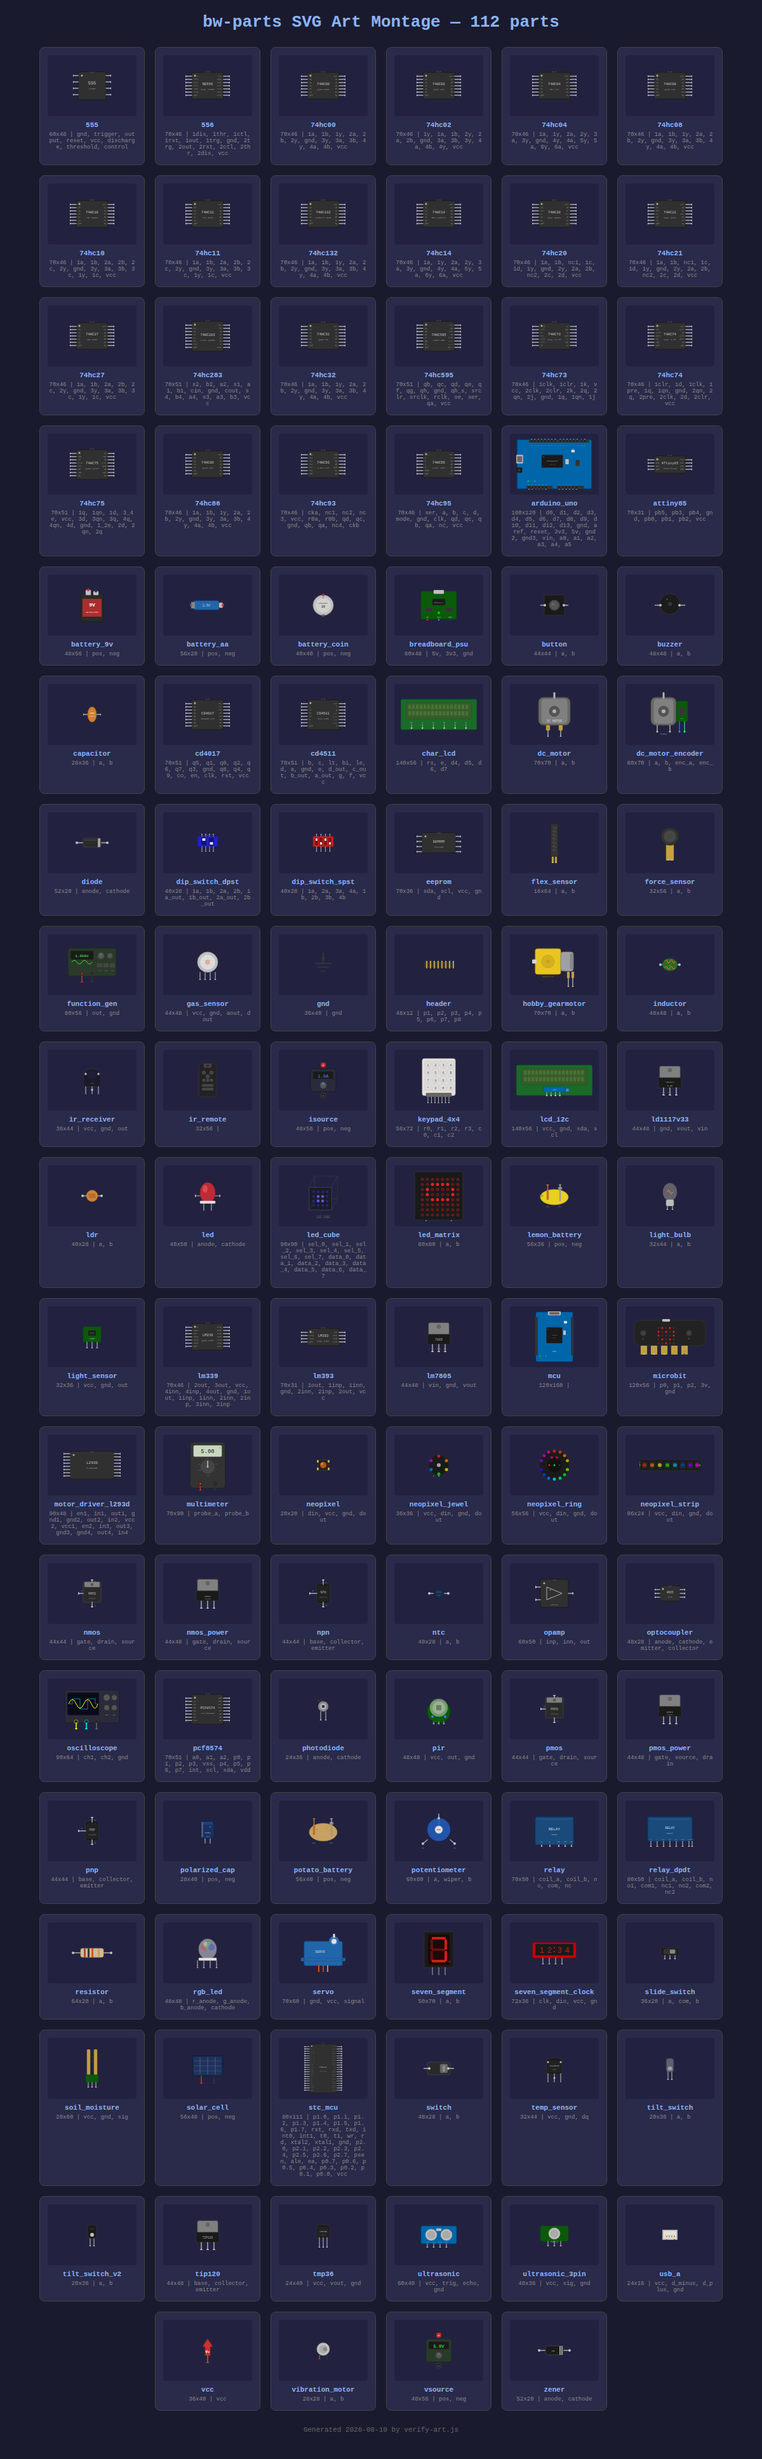
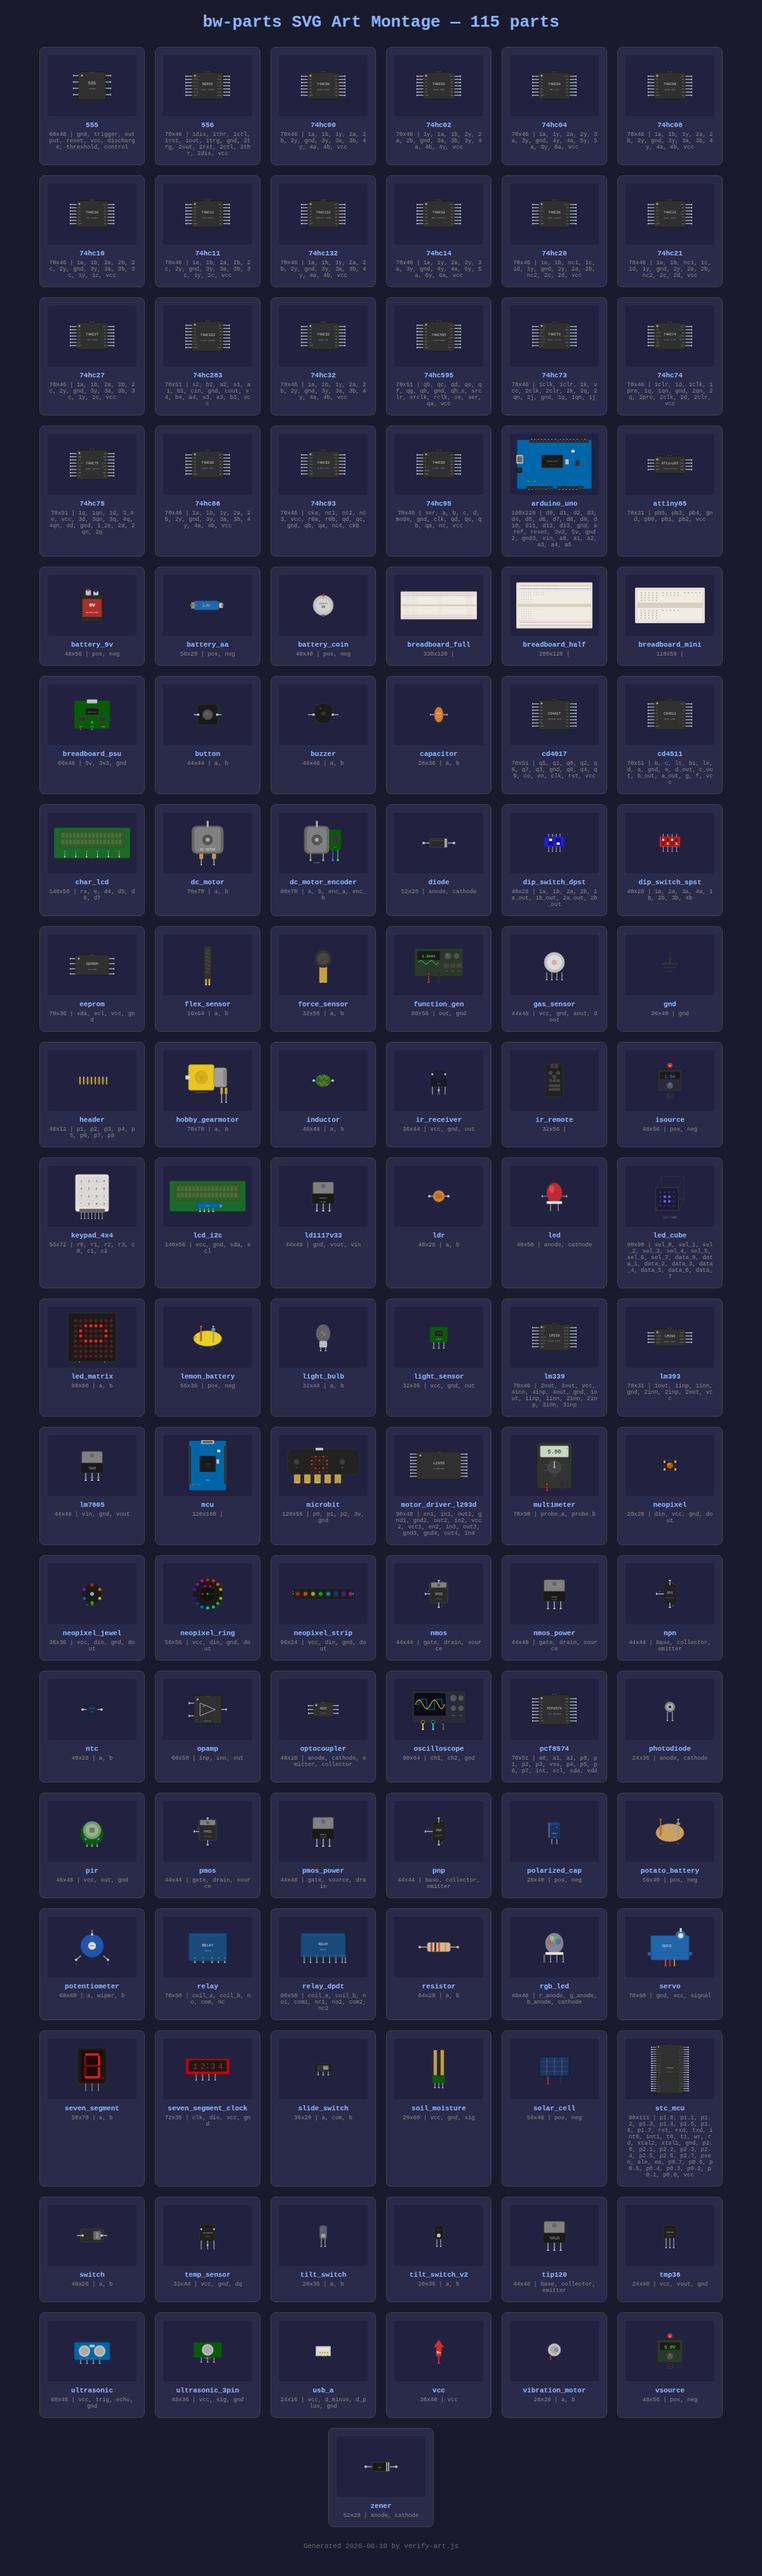
Breadboards, DIP ICs, catalog updates: 115 SVGs, 3 pending
Breadboard art (3): full-size (330x120, power rails + center gap +
hole grid + row labels a-j), half-size (200x120, same structure),
mini (110x56, no power rails). All use empty terminals array — hole-
to-node mapping is the circuit model's job, not the sidecar's.

DIP-generated from datasheets (4): NE556 dual timer (14-pin, TI
SLFS023), LM393 dual comparator (8-pin, TI SLCS007), LM339 quad
comparator (14-pin, TI SLCS006), ATtiny85 (8-pin, Microchip —
unverified variant noted in sidecar).

Catalog updates:
- ATtiny85 marked modeled (avr8js adapter landed in a7fef9a)
- Arduino Uno marked modeled (avr8js)
- STC12 marked modeled (emu8051)
- micro:bit, instruments, header, usb_a marked done
- LM393/LM339 slugs adopted per reconciliation proposal
- header_8pin renamed to header per reconciliation

Remaining pending: microbit_breakout (2 parts), pololu_motor_ctrl
(help-page-only, correctly last).

Changed region(s): [[0.0617, 0.0, 0.9558, 1.0]]

diff --git a/PARTS-CATALOG.md b/PARTS-CATALOG.md
@@ -169,20 +169,20 @@ Generated by `generate-dip.js`. Pin maps from manufacturer datasheets.
 | # | Kind slug | Name EN / DE | Terminals | Engine | Art | Confidence |
 |---|-----------|-------------|-----------|--------|-----|------------|
 | 87 | `555` | 555 Timer (NE555) / 555-Timer | gnd, trigger, output, reset, control, threshold, discharge, vcc | registry-candidate | done | `slug` |
-| 88 | `556` | 556 Dual Timer (NE556) / 556-Doppeltimer | (14-pin DIP) | drawable-only | pending | `slug` |
+| 88 | `556` | 556 Dual Timer (NE556) / 556-Doppeltimer | (14-pin DIP) | drawable-only | dip-gen | `slug` |
 | 89 | `opamp` | Op-Amp 741 (uA741) / Operationsverstaerker | inp, inn, out | modeled | done | `slug` |
-| 90 | `comparator_lm393` | Dual Comparator LM393 / Komparator LM393 | inp, inn, out, vcc, gnd | drawable-only | pending | `slug` |
-| 91 | `comparator_lm339` | Quad Comparator LM339 / Komparator LM339 | (14-pin DIP) | drawable-only | pending | `slug` |
+| 90 | `lm393` | Dual Comparator LM393 / Komparator LM393 | (8-pin DIP) | drawable-only | dip-gen | `slug` |
+| 91 | `lm339` | Quad Comparator LM339 / Komparator LM339 | (14-pin DIP) | drawable-only | dip-gen | `slug` |
 | 92 | `optocoupler` | Optocoupler 4N35 / Optokoppler 4N35 | anode, cathode, emitter, collector | drawable-only | done | `slug` |
 
 ## MCU Boards (4 kinds + 1 declined)
 
 | # | Kind slug | Name EN / DE | Engine | Art | Confidence |
 |---|-----------|-------------|--------|-----|------------|
-| 93 | `arduino_uno` | Arduino Uno R3 / Arduino Uno R3 | drawable-only | done | `standard`: ATmega328P |
-| 94 | `attiny85` | ATtiny / ATtiny | drawable-only | pending | **unverified**: probably ATtiny85 |
-| 95 | `microbit` | micro:bit / micro:bit | drawable-only | pending | **unverified**: v1 vs v2 |
-| 96 | `stc_mcu` | STC12/STC15 MCU / STC-MCU | drawable-only | pending | unique to bw |
+| 93 | `arduino_uno` | Arduino Uno R3 / Arduino Uno R3 | modeled (avr8js) | done | `standard`: ATmega328P |
+| 94 | `attiny85` | ATtiny / ATtiny | modeled (avr8js, a7fef9a) | dip-gen | **unverified**: probably ATtiny85 |
+| 95 | `microbit` | micro:bit / micro:bit | drawable-only | done | **unverified**: v1 vs v2 |
+| 96 | `stc_mcu` | STC12/STC15 MCU / STC-MCU | modeled (emu8051) | dip-gen | unique to bw |
 | — | ~~`esp8266`~~ | ~~ESP8266 WiFi~~ | **declined** | — | WiFi simulation out of scope |
 
 ## Instruments (4 kinds)
@@ -192,10 +192,10 @@ like any other part (per bw-board ruling 2db84b2).
 
 | # | Kind slug | Name EN / DE | Terminals | Engine | Art |
 |---|-----------|-------------|-----------|--------|-----|
-| 97 | `multimeter` | Multimeter / Multimeter | probe_a, probe_b | modeled | pending |
+| 97 | `multimeter` | Multimeter / Multimeter | probe_a, probe_b | modeled | done |
 | 98 | `power_supply` | Power Supply / Netzteil | pos, neg | modeled | done |
-| 99 | `function_gen` | Function Generator / Funktionsgenerator | out, gnd | modeled | pending |
-| 100 | `oscilloscope` | Oscilloscope / Oszilloskop | ch1, ch2, gnd | modeled | pending |
+| 99 | `function_gen` | Function Generator / Funktionsgenerator | out, gnd | modeled | done |
+| 100 | `oscilloscope` | Oscilloscope / Oszilloskop | ch1, ch2, gnd | modeled | done |
 
 > `power_supply` is `vsource` with a settable V/I-limit. The existing
 > `vsource` art covers it; the slug alias will be resolved in bw-board.
@@ -204,11 +204,11 @@ like any other part (per bw-board ruling 2db84b2).
 
 | # | Kind slug | Name EN / DE | Engine | Art |
 |---|-----------|-------------|--------|-----|
-| 101 | `breadboard_full` | Breadboard Standard / Steckbrett | drawable-only | pending |
-| 102 | `breadboard_half` | Breadboard Small / Steckbrett Klein | drawable-only | pending |
-| 103 | `breadboard_mini` | Breadboard Mini / Steckbrett Mini | drawable-only | pending |
-| 104 | `header_8pin` | 8-Pin Header / 8-Pin-Stiftleiste | drawable-only | pending |
-| 105 | `usb_a` | USB-A Connector / USB-A-Stecker | drawable-only | pending |
+| 101 | `breadboard_full` | Breadboard Standard / Steckbrett | drawable-only | done |
+| 102 | `breadboard_half` | Breadboard Small / Steckbrett Klein | drawable-only | done |
+| 103 | `breadboard_mini` | Breadboard Mini / Steckbrett Mini | drawable-only | done |
+| 104 | `header` | 8-Pin Header / 8-Pin-Stiftleiste | drawable-only | done |
+| 105 | `usb_a` | USB-A Connector / USB-A-Stecker | drawable-only | done |
 | 106 | `microbit_breakout` | micro:bit with Breakout / micro:bit mit Breakout | drawable-only | pending |
 | 107 | `pololu_motor_ctrl` | Pololu Motor Controller / Pololu-Motorsteuerung | drawable-only | pending |
 

diff --git a/PARTS-RECONCILIATION.md b/PARTS-RECONCILIATION.md
@@ -5,7 +5,7 @@
 > Where a slug differs between repos, the canonical slug (this file) wins
 > and the other repo renames once.
 >
-> **Last updated:** 2026-08-09
+> **Last updated:** 2026-08-10
 
 ## Slug conventions
 
@@ -135,7 +135,7 @@ Legend: ✓ = present, — = absent, *alias* = present under different slug
 | 92 | `comparator_lm393` | LM393 Dual | *lm393* | — | pending | propose `lm393` |
 | 93 | `comparator_lm339` | LM339 Quad | *lm339* | — | pending | propose `lm339` |
 | 94 | `arduino_uno` | — | ✓ (as mcu) | ✓ (as mcu) | done | |
-| 95 | `attiny85` | — | — | — | pending | **unverified** |
+| 95 | `attiny85` | — | ✓ (avr8js, a7fef9a) | — | dip-gen | **unverified** |
 | 96 | `microbit` | — | — | — | pending | **unverified** |
 | 97 | `stc_mcu` | — | — | — | pending | unique to bw |
 | 98 | `multimeter` | — | — | *meter* | pending | |
